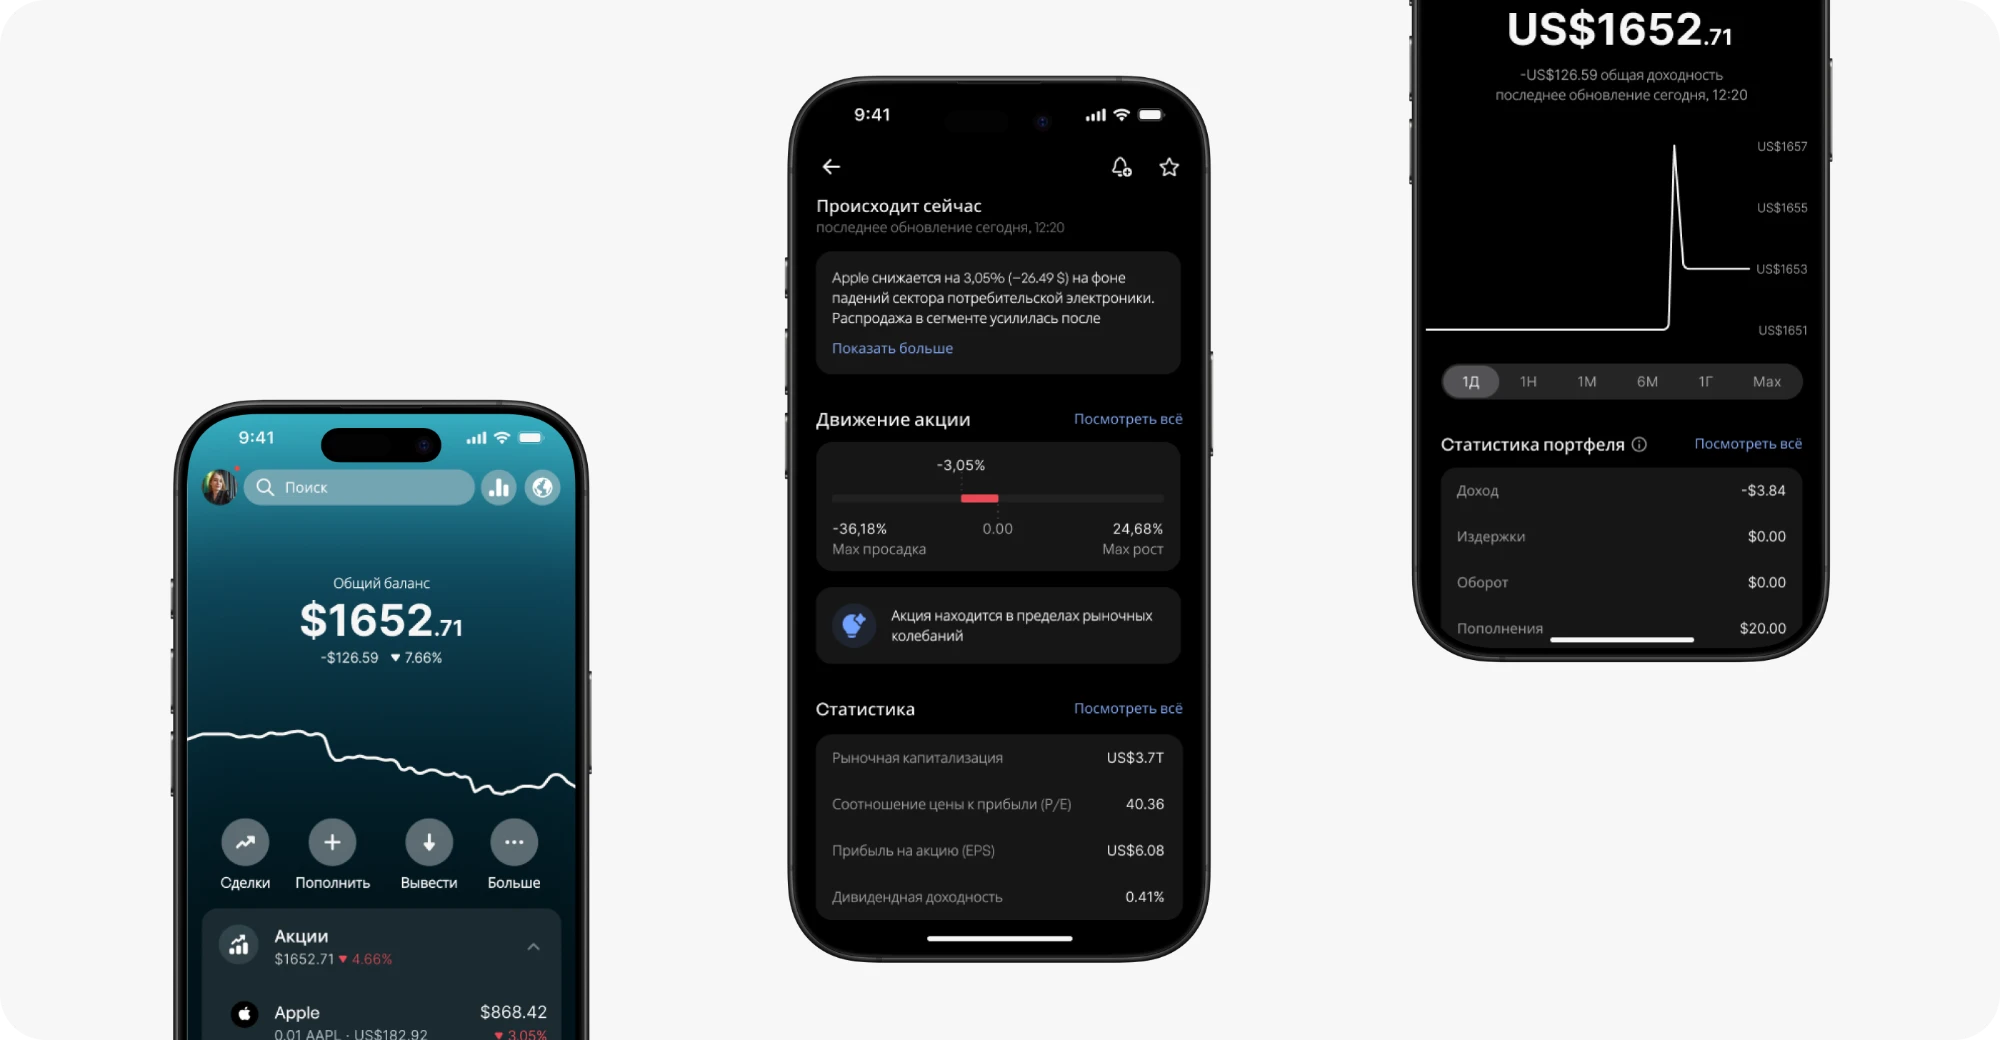
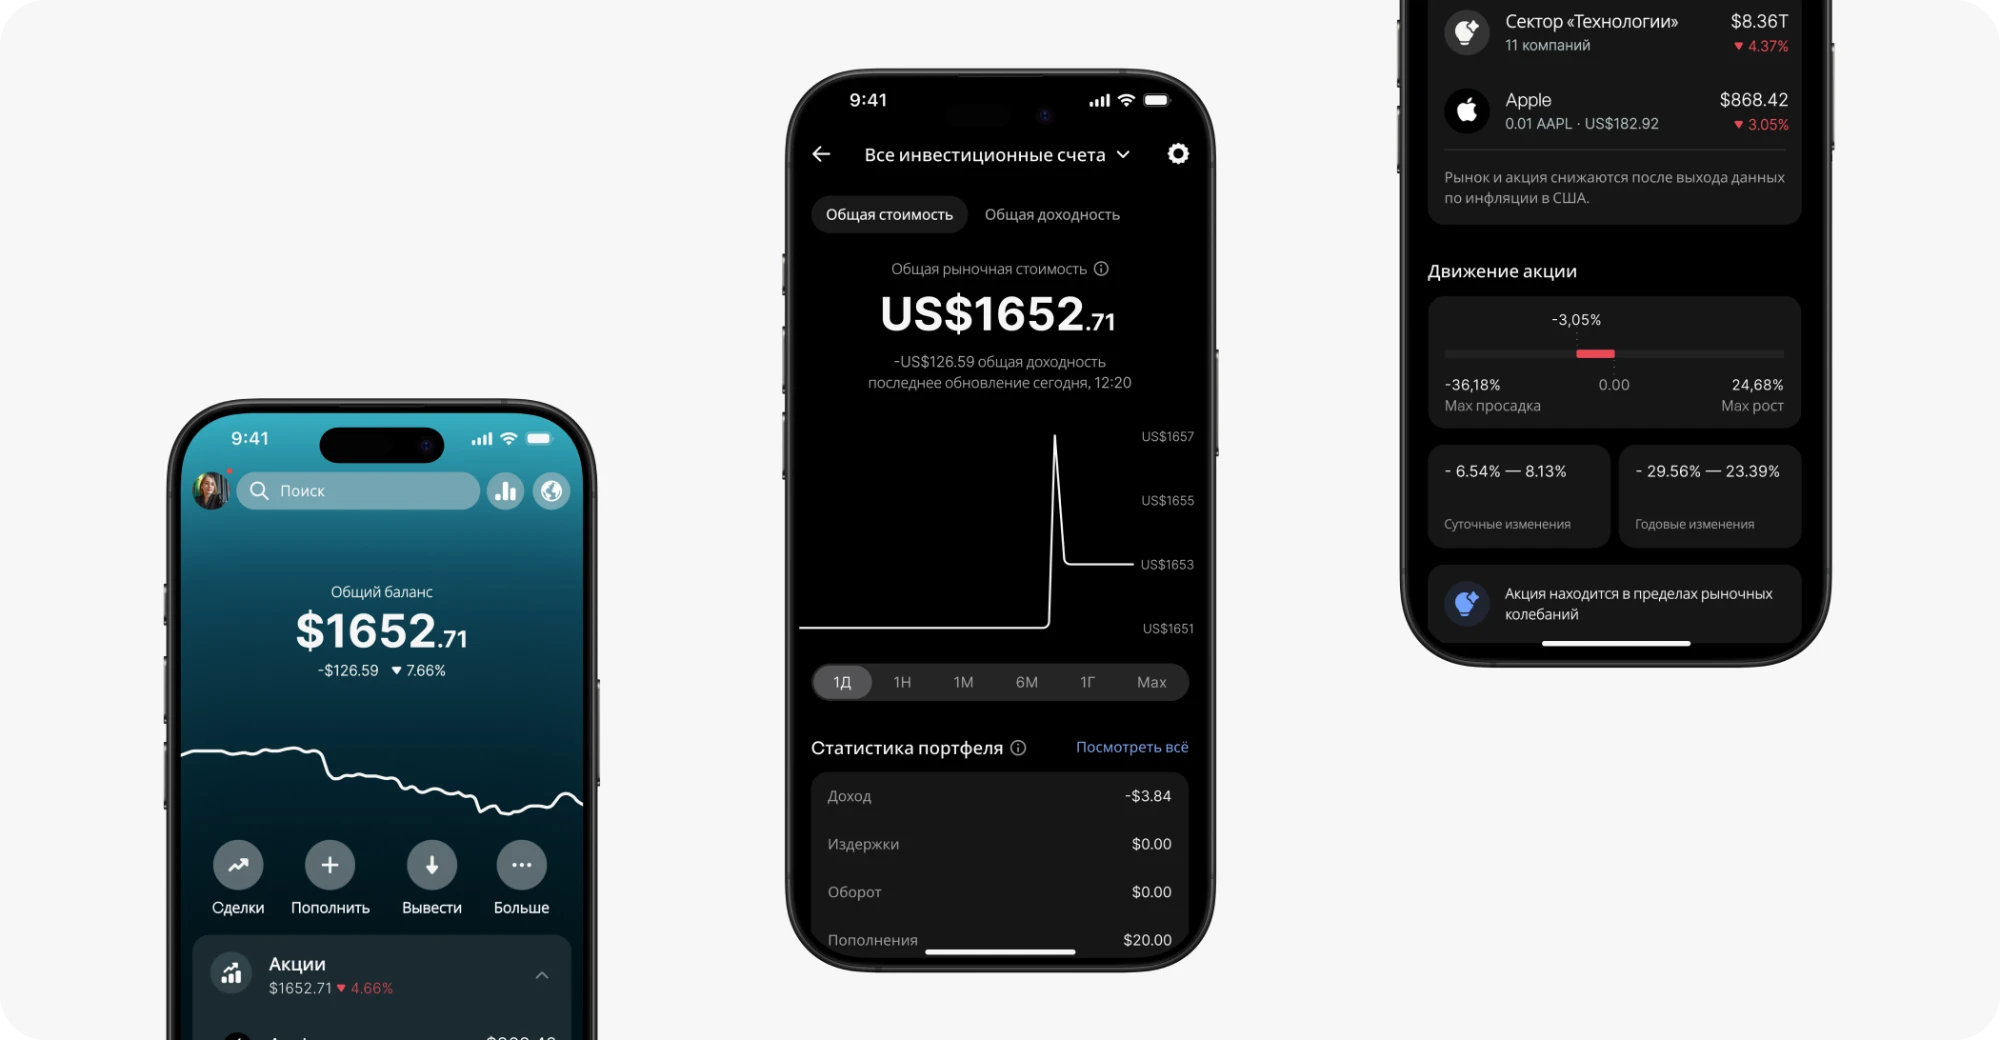
Replace first case desktop cover with new Revolut mockup
Claude-Session: https://claude.ai/code/session_0176u75RniALf7gmUSXYiJ3H

diff --git a/index.html b/index.html
@@ -52,7 +52,7 @@
           <div class="case-card__media" data-cta="Смотреть кейс">
             <picture>
               <source media="(max-width: 640px)" srcset="assets/img/case-1-mobile.webp">
-              <img class="case-card__img" src="assets/img/case-1.webp" alt="Кейс: банковское приложение — экраны баланса, движения акции и статистики портфеля" loading="lazy" width="1400" height="728">
+              <img class="case-card__img" src="assets/img/case-1.webp?v=2" alt="Кейс: банковское приложение — экраны баланса, движения акции и статистики портфеля" loading="lazy" width="1400" height="728">
             </picture>
             <div class="case-card__tags">
               <span class="tag tag-accent">B2C</span>
